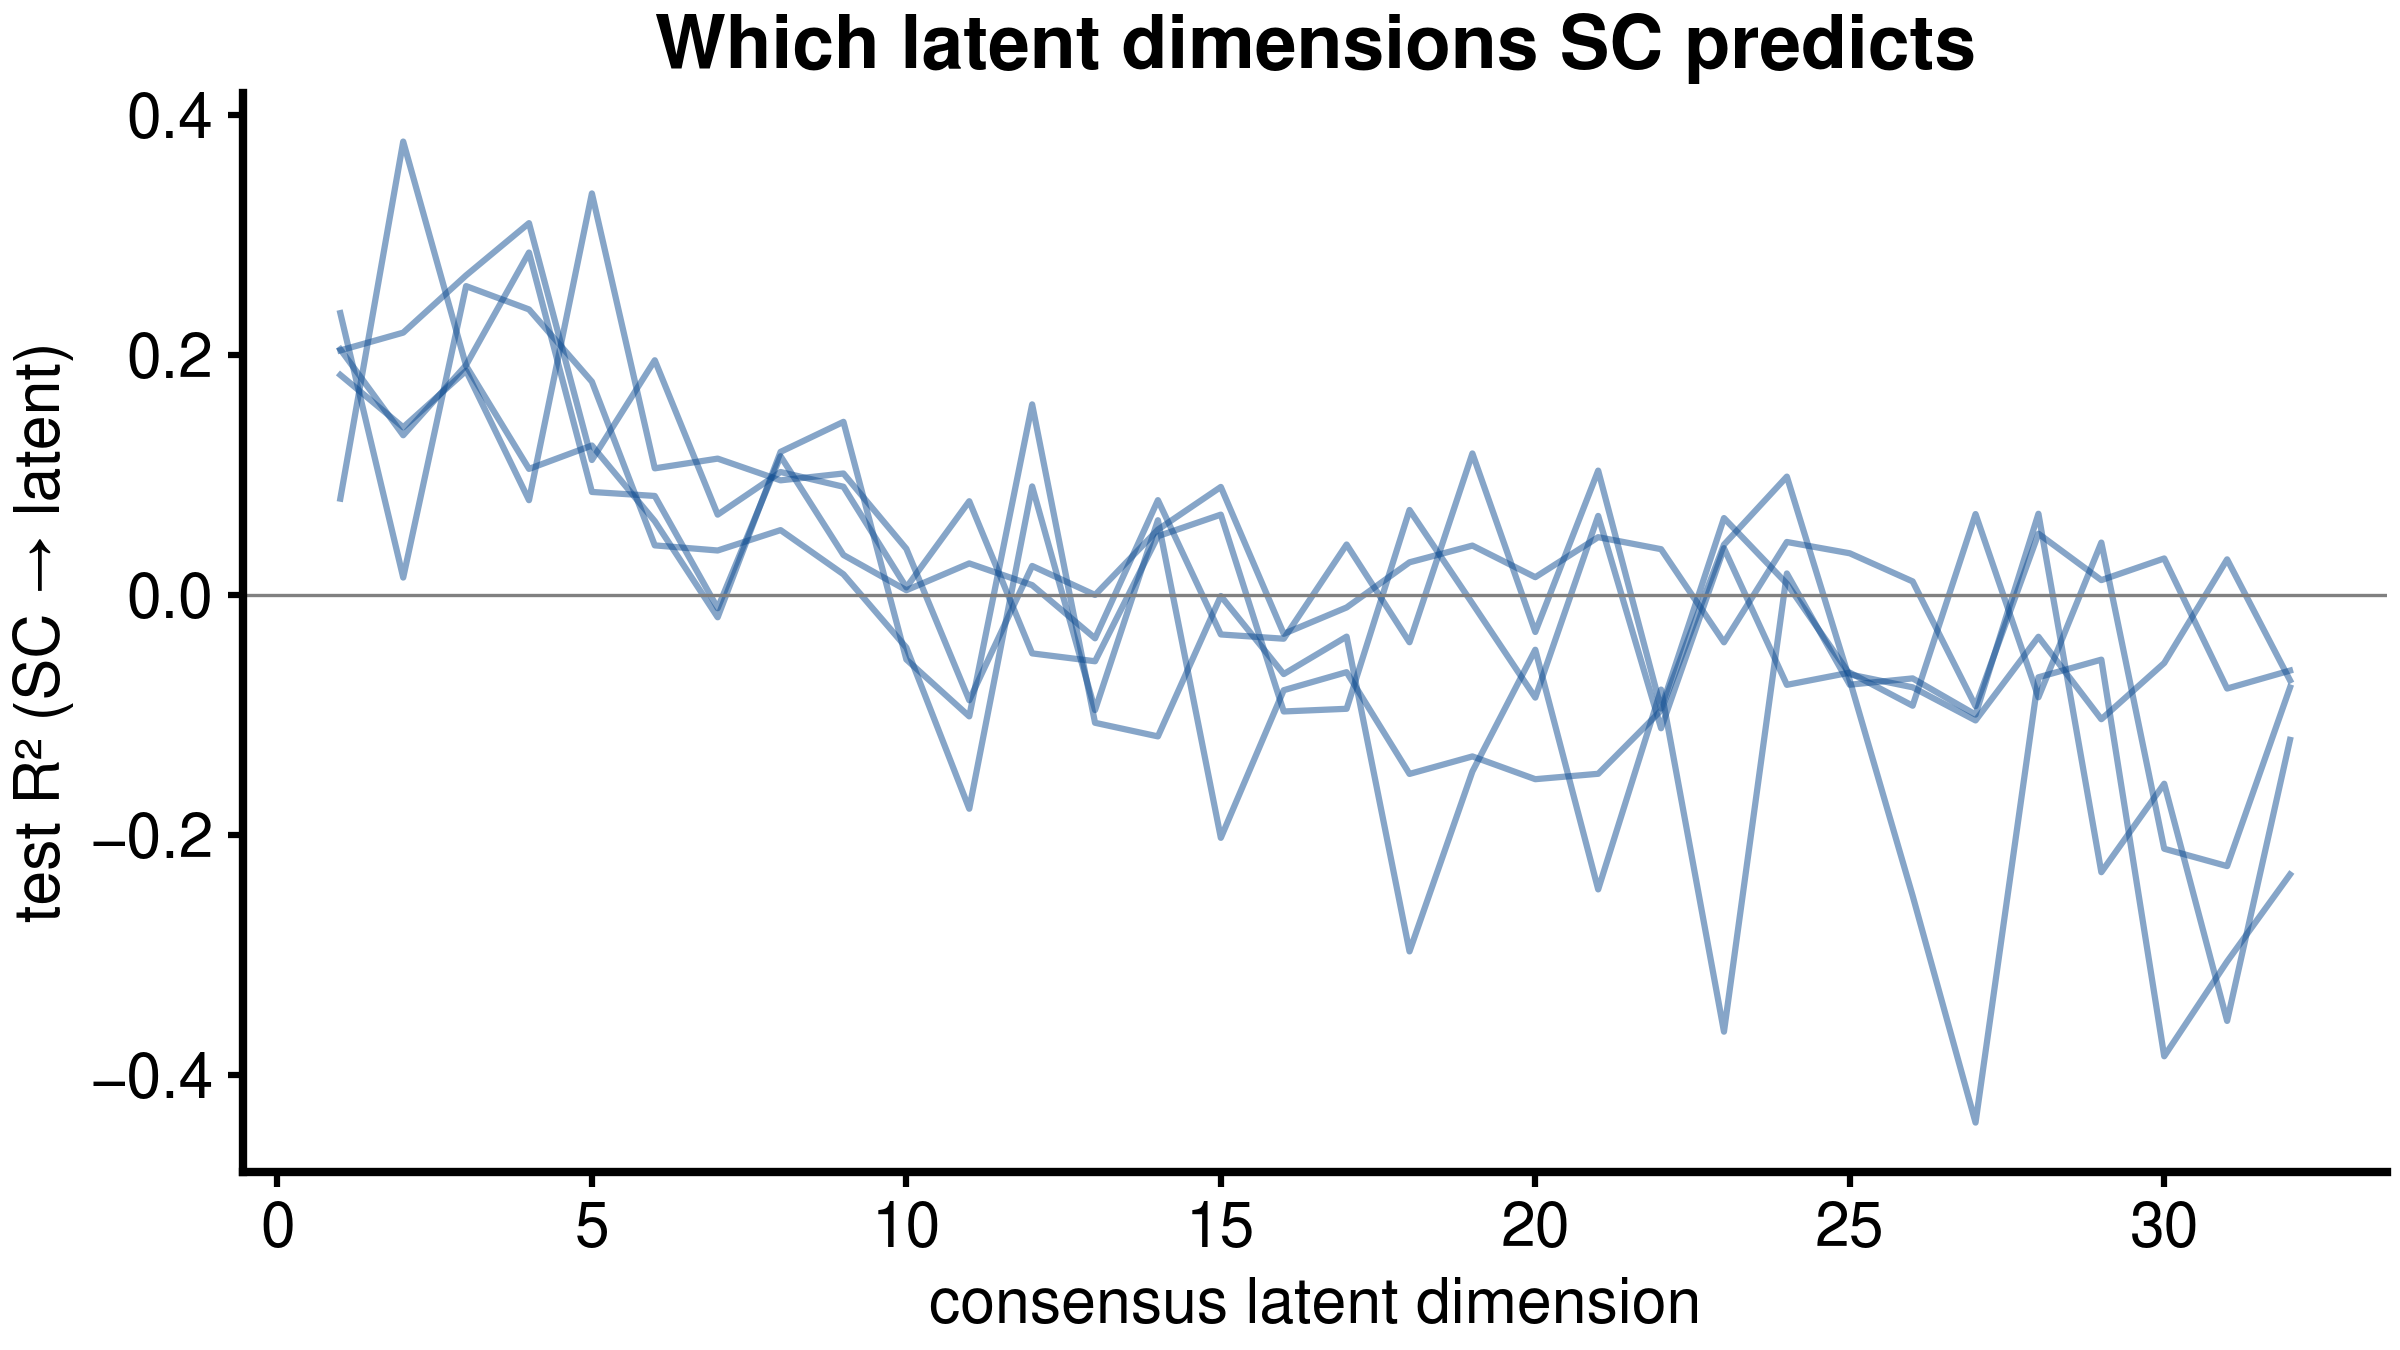
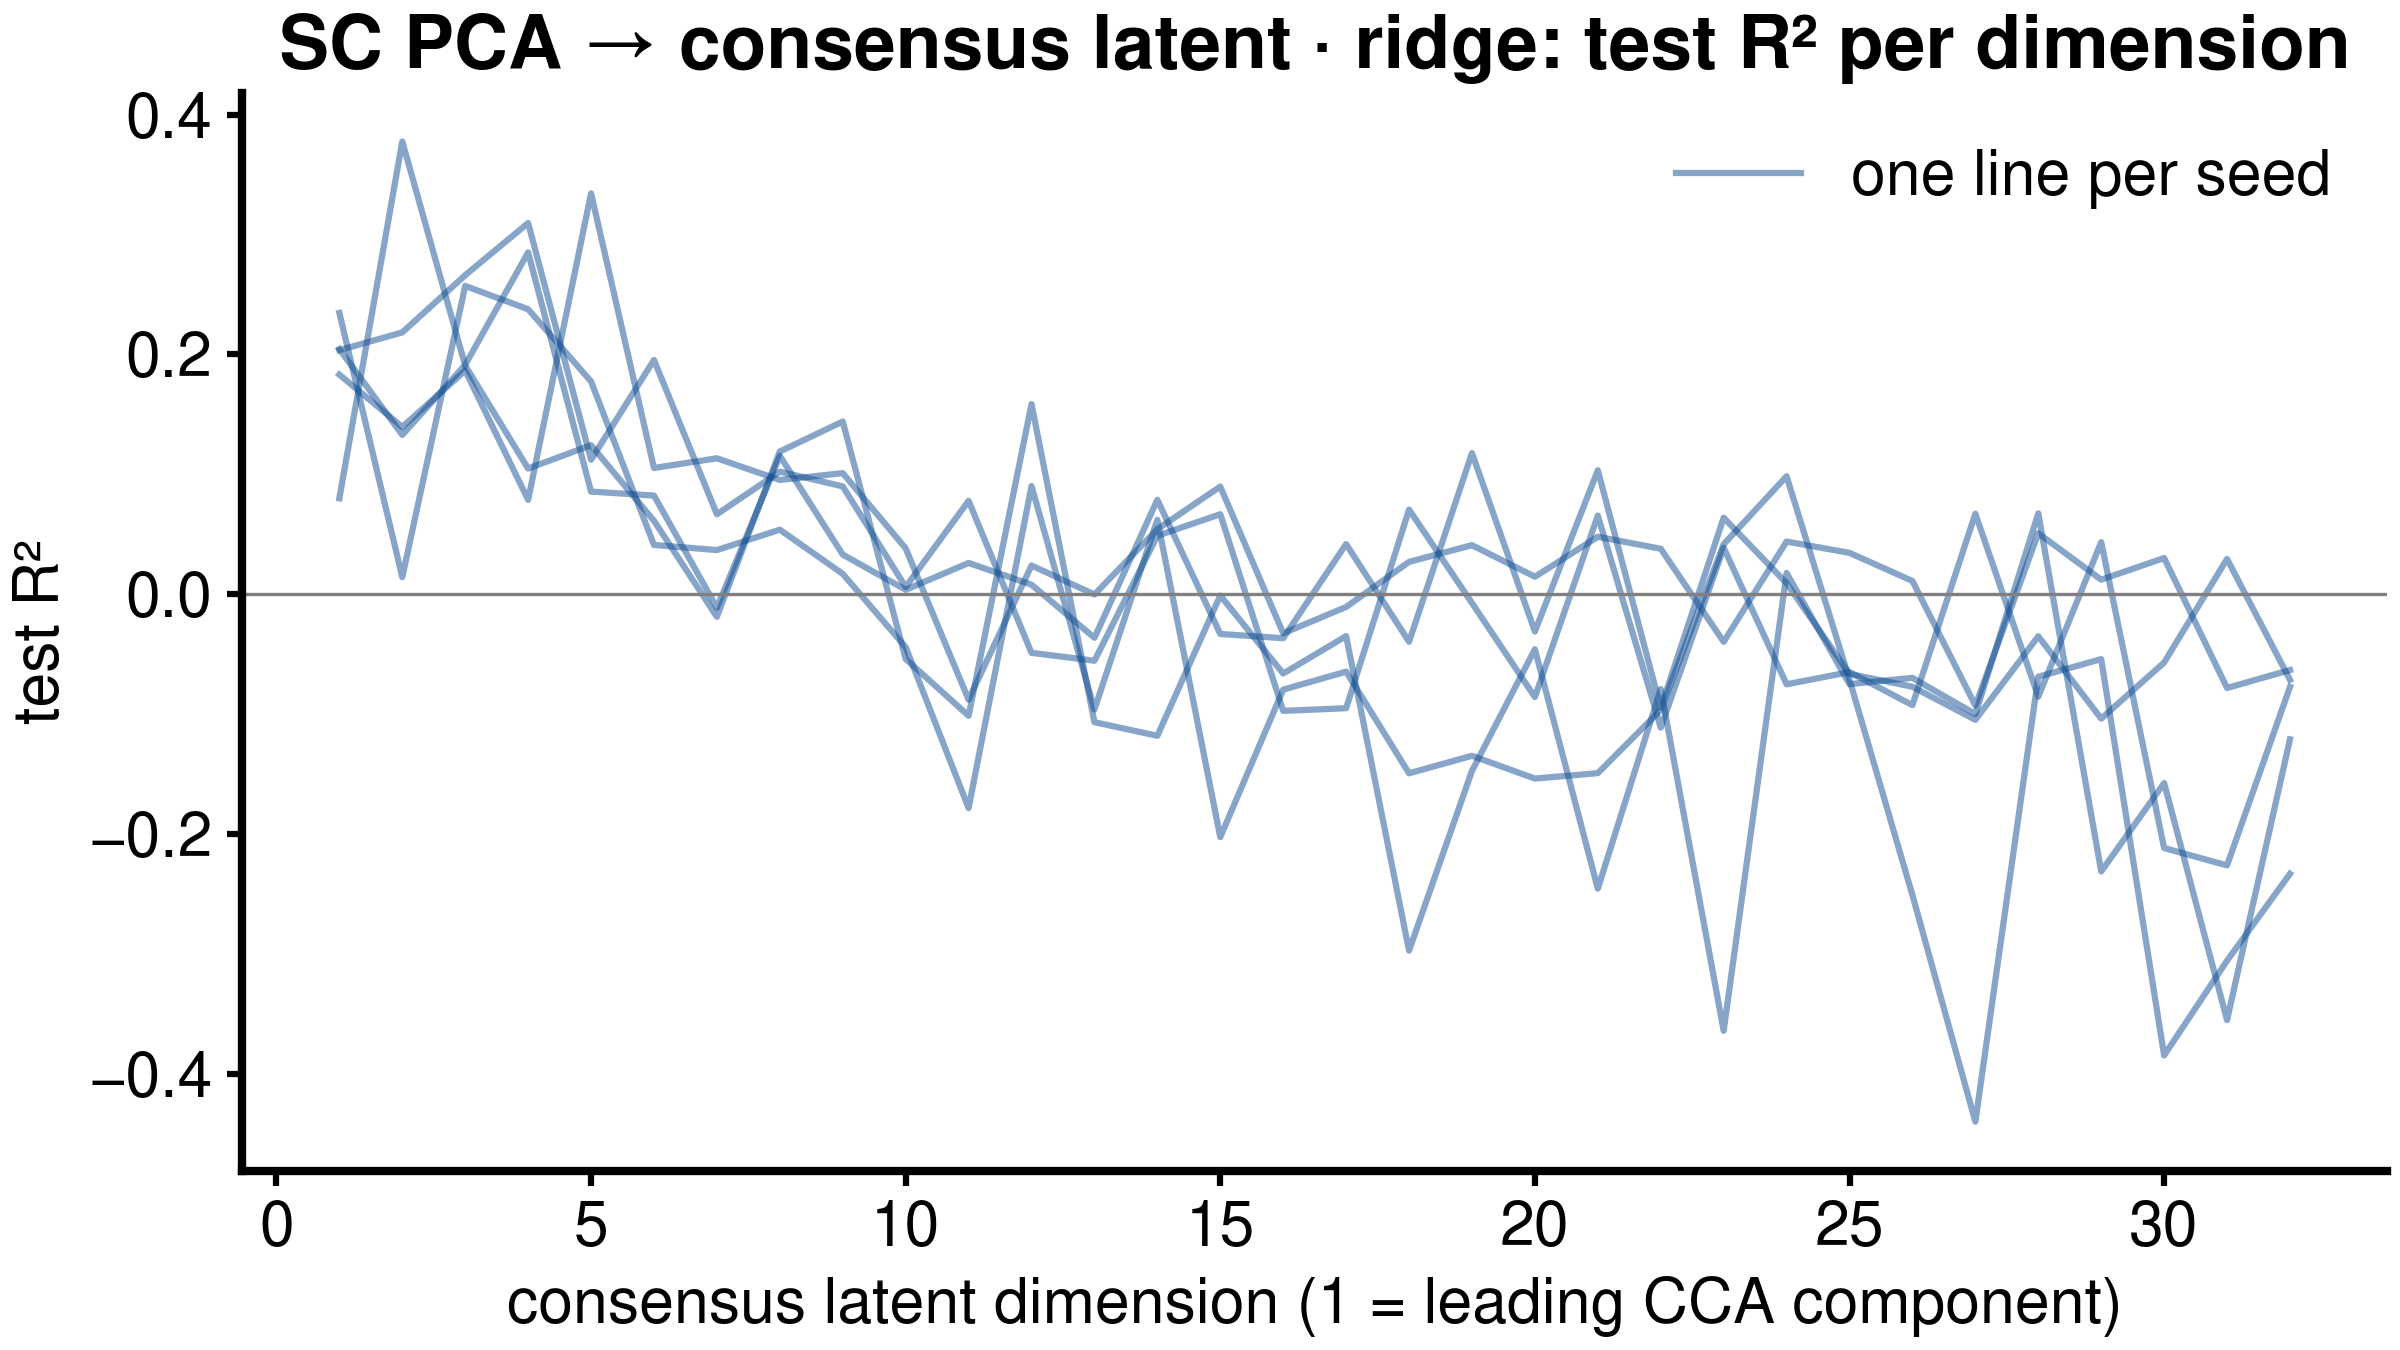
E2: readable input -> output labels on all figures and tables; full shared CCA (SC as a view, E1 L4) reference in the write-up

diff --git a/scripts/experiments/cca_latent_bench/run.py b/scripts/experiments/cca_latent_bench/run.py
@@ -114,6 +114,9 @@ def fig_fc2sc(rec, bench, path):
     import matplotlib.pyplot as plt
     order = ["rest PCA codes (val-selected k)", "rest encoding", "7-task consensus", "8-condition consensus",
              "concatenated encodings", *[f"{t} encoding" for t in TASKS]]
+    ticks = ["rest FC PCA → SC", "rest FC → latent → SC", "7 task FCs → consensus latent → SC",
+             "8 FCs → consensus latent → SC", "8 FCs → 8 latents (concat.) → SC",
+             *[f"{t} FC → latent → SC" for t in TASKS]]
     vals = {}
     for ro in ("ridge", "pls"):
         f = dict(direction="fc2sc", latent="sc_blind", readout=ro)
@@ -125,20 +128,23 @@ def fig_fc2sc(rec, bench, path):
             means = [v.mean() for v in vals[ro]]
             ses = [v.sem() for v in vals[ro]]
             ax.bar(x + (j - 0.5) * 0.38, means, 0.38, yerr=ses, color=c, edgecolor="black", lw=1.2, capsize=3,
-                   label=ro.upper() if ro == "pls" else "Ridge")
+                   label=f"readout: {'PLS' if ro == 'pls' else 'ridge'}")
             for xi, v in zip(x, vals[ro]):
                 ax.scatter(np.full(len(v), xi + (j - 0.5) * 0.38), v, s=14, color="black", zorder=3)
         b = bench_series(bench, "fc2sc", "rest")
-        ax.axhline(b.mean(), color=PAL["red"], lw=2, ls="--", label=f"v3:E0 rest, PCA-PLS learnable ({b.mean():.3f})")
+        ax.axhline(b.mean(), color=PAL["red"], lw=2, ls="--",
+                   label=f"rest FC PCA → SC · PCA-PLS learnable [v3:E0] ({b.mean():.3f})")
         for xi, name in zip(x, order):     # the same condition's own v3:E0 row on each single-condition bar
             cond = name.split(" ")[0]
             if name.endswith("encoding") and cond in FC:
                 ax.plot([xi - 0.4, xi + 0.4], [bench_series(bench, "fc2sc", cond).mean()] * 2, color=PAL["red"], lw=3,
-                        solid_capstyle="butt", label="v3:E0 same condition (PCA-PLS learnable)" if cond == "rest" else None)
-        ax.set_xticks(x, order, rotation=35, ha="right", rotation_mode="anchor")
-        ax.set_ylabel("Test demeaned r (FC → SC)")
-        ax.set_title("E2 FC → SC: input encodings (SC-blind CCA latent), mean ± SE over 5 seeds", fontweight="bold")
-        ax.legend(frameon=False, fontsize=12, loc="upper right")
+                        solid_capstyle="butt", label="same FC condition, own FC PCA → SC · PCA-PLS learnable [v3:E0]" if cond == "rest" else None)
+        ax.set_xticks(x, ticks, rotation=35, ha="right", rotation_mode="anchor")
+        ax.set_ylabel("Test demeaned r (predicted vs measured SC)")
+        ax.set_title("E2 FC → SC: which FC encoding predicts SC best (latent = FC-only CCA, never sees SC); "
+                     "mean ± SE, 5 seeds", fontweight="bold", fontsize=15)
+        ax.set_ylim(0, 0.2)
+        ax.legend(frameon=False, fontsize=12, loc="upper center", ncol=2)
         fig.savefig(path, dpi=300, facecolor="white")
         plt.close(fig)
 
@@ -147,12 +153,12 @@ def fig_sc2fc(rec, bench, path):
     import matplotlib
     matplotlib.use("Agg")
     import matplotlib.pyplot as plt
-    series = [("v3:E0 SC → FC", lambda m: bench_series(bench, "sc2fc", m), PAL["red"]),
-              ("direct SC → condition (ridge)", lambda m: per_seed(rec, input="direct codes", direction="sc2fc", condition=m, readout="ridge"), PAL["neutral"]),
-              ("via own encoding (ridge)", lambda m: per_seed(rec, input="via own encoding", direction="sc2fc", condition=m, readout="ridge"), PAL["teal"]),
-              ("via consensus latent (ridge)", lambda m: per_seed(rec, input="via consensus latent", direction="sc2fc", condition=m, readout="ridge"), PAL["blue"])]
+    series = [("SC PCA → task FC (per-task FC PCA) · PCA-PLS learnable [v3:E0]", lambda m: bench_series(bench, "sc2fc", m), PAL["red"]),
+              ("SC PCA → task FC (block FC PCA) · ridge", lambda m: per_seed(rec, input="direct codes", direction="sc2fc", condition=m, readout="ridge"), PAL["neutral"]),
+              ("SC PCA → task latent → task FC · ridge", lambda m: per_seed(rec, input="via own encoding", direction="sc2fc", condition=m, readout="ridge"), PAL["teal"]),
+              ("SC PCA → consensus latent → task FC · ridge", lambda m: per_seed(rec, input="via consensus latent", direction="sc2fc", condition=m, readout="ridge"), PAL["blue"])]
     with plt.rc_context({**mb.FIG_RC, "font.size": 15, "axes.linewidth": 2.0}):
-        fig, ax = plt.subplots(figsize=(15, 6), layout="constrained")
+        fig, ax = plt.subplots(figsize=(15, 6.5), layout="constrained")
         x = np.arange(len(FC))
         w = 0.2
         for j, (lab, fn, c) in enumerate(series):
@@ -161,11 +167,13 @@ def fig_sc2fc(rec, bench, path):
                    lw=1.1, capsize=2, label=lab)
         ceil = [per_seed(rec, input="ceiling: true consensus latent", direction="sc2fc", condition=m).mean() for m in FC]
         ax.scatter(x + 1.5 * w, ceil, marker="_", s=400, color="black", lw=2.5, zorder=4,
-                   label="ceiling: true consensus latent decoded")
+                   label="ceiling: measured FC consensus latent → task FC (no SC)")
         ax.set_xticks(x, FC)
-        ax.set_ylabel("Test demeaned r (SC → FC)")
-        ax.set_title("E2 SC → FC per condition, mean ± SE over 5 seeds", fontweight="bold")
-        ax.legend(frameon=False, fontsize=12, ncol=2, loc="upper right")
+        ax.set_xlabel("target FC condition")
+        ax.set_ylabel("Test demeaned r (predicted vs measured FC)")
+        ax.set_title("E2 SC → FC: predicting each condition's FC from SC (latent = FC-only CCA); mean ± SE, 5 seeds",
+                     fontweight="bold", fontsize=15)
+        ax.legend(frameon=False, fontsize=12, ncol=1, loc="upper right")
         fig.savefig(path, dpi=300, facecolor="white")
         plt.close(fig)
 
@@ -177,11 +185,12 @@ def fig_latent_r2(r2, path):
     with plt.rc_context({**mb.FIG_RC, "font.size": 15, "axes.linewidth": 2.0}):
         fig, ax = plt.subplots(figsize=(8, 4.5), layout="constrained")
         for s, g in r2.groupby("seed"):
-            ax.plot(g.dim, g.test_r2, color=PAL["blue"], alpha=0.5, lw=1.5, label="seed" if s == r2.seed.min() else None)
+            ax.plot(g.dim, g.test_r2, color=PAL["blue"], alpha=0.5, lw=1.5, label="one line per seed" if s == r2.seed.min() else None)
         ax.axhline(0, color="grey", lw=0.8)
-        ax.set_xlabel("consensus latent dimension")
-        ax.set_ylabel("test R² (SC → latent)")
-        ax.set_title("Which latent dimensions SC predicts", fontweight="bold")
+        ax.set_xlabel("consensus latent dimension (1 = leading CCA component)")
+        ax.set_ylabel("test R²")
+        ax.legend(frameon=False)
+        ax.set_title("SC PCA → consensus latent · ridge: test R² per dimension", fontweight="bold")
         fig.savefig(path, dpi=300, facecolor="white")
         plt.close(fig)
 
@@ -196,13 +205,17 @@ def fig_latent_selection(lat, path):
         for ax, k in zip(axes, CFG["latent"]["k_fc"]):
             for lam, c in zip(sorted(g.lambda_rel.unique()), [PAL["red"], PAL["teal"], PAL["blue"], PAL["violet"]]):
                 q = g[(g.k_fc == k) & (g.lambda_rel == lam)]
-                ax.plot(q.d, q.val_cross_avg_rank, marker="o", color=c, label=f"λ = {lam:g}")
+                ax.plot(q.d, q.val_cross_avg_rank, marker="o", color=c, label=f"CCA ridge λ = {lam:g}")
             ax.set_xscale("log", base=2)
-            ax.set_title(f"k_FC = {k}")
-            ax.set_xlabel("latent dimension d")
-        axes[0].set_ylabel("val cross-condition avg rank")
+            ds = sorted(g.d[g.k_fc == k].unique())
+            ax.set_xticks(ds, [str(int(d)) for d in ds])
+            ax.minorticks_off()
+            ax.set_title(f"{k} block FC PCA codes per condition")
+            ax.set_xlabel("CCA latent dimension d")
+        axes[0].set_ylabel("val cross-condition identification\n(avg rank, 56 condition pairs)")
         axes[-1].legend(frameon=False)
-        fig.suptitle("SC-blind latent selection (mean over seeds)", fontweight="bold")
+        fig.suptitle("Choosing the FC-only CCA latent without SC: does a subject's encoding from one FC condition find "
+                     "them in another? (mean over 5 seeds)", fontweight="bold", fontsize=14)
         fig.savefig(path, dpi=300, facecolor="white")
         plt.close(fig)
 

diff --git a/scripts/experiments/cca_latent_bench/cca_latent_bench.md b/scripts/experiments/cca_latent_bench/cca_latent_bench.md
@@ -59,7 +59,7 @@ SC → FC with the latent as the target.
 
 ### SC → FC
 
-| Condition | v3:E0 | direct SC → codes (ridge) | via own encoding | via consensus latent | Ceiling: true consensus decoded |
+| Target FC condition | SC PCA → task FC (per-task FC PCA) · PCA-PLS learnable [v3:E0] | SC PCA → task FC (block FC PCA) · ridge | SC PCA → task latent → task FC · ridge | SC PCA → consensus latent → task FC · ridge | Ceiling: measured FC consensus latent → task FC (no SC) |
 |---|---|---|---|---|---|
 | rest | 0.085 | 0.096 | 0.103 | 0.105 | 0.304 |
 | wm | 0.030 | 0.054 | 0.055 | 0.056 | 0.196 |
@@ -70,10 +70,33 @@ SC → FC with the latent as the target.
 | relational | 0.016 | 0.026 | 0.029 | 0.030 | 0.132 |
 | emotion | 0.013 | 0.031 | 0.032 | 0.032 | 0.107 |
 
+Every SC input is SC's own train PCA (size 64–512 chosen on val per model and condition). E2's routes all output in
+the shared block FC PCA basis (equal-variance pooled); v3:E0 uses a separate FC PCA basis per condition. The step from
+the first to the second column is therefore the basis and readout (no CCA); the step from the second to the last two
+columns is the latent route.
+
 Predicted vs true consensus latent (test): mean per-dimension R² −0.06 to 0.05 across seeds, yet identification
 top-1 0.05–0.15 (chance 0.005), average rank 0.86–0.90.
 
 ![SC to FC per condition](results/Glasser/figures/fig_sc2fc_conditions.png)
+
+### Reference: full shared CCA with SC as a ninth view (E1 linear arm L4)
+
+The same MAXVAR with SC included as a view, from `scripts/experiments/joint_flow_matching/linear_arms.py` (5 seeds;
+$(d, \lambda)$ chosen on mean val demeaned r over all 72 view pairs, $d$ = 32 in most seeds; block FC PCA codes,
+$k$ = 512 shown). Translation encodes the source view and decodes the target view.
+
+| | rest | emotion | gambling | language | motor | relational | social | wm |
+|---|---|---|---|---|---|---|---|---|
+| SC → shared latent (with SC) → FC | 0.105 | 0.032 | 0.038 | 0.055 | 0.039 | 0.030 | 0.040 | 0.057 |
+| SC PCA → consensus latent (FC-only) → FC (this benchmark) | 0.105 | 0.032 | 0.041 | 0.055 | 0.041 | 0.030 | 0.042 | 0.056 |
+| FC → shared latent (with SC) → SC | 0.132 | 0.072 | 0.086 | 0.102 | 0.088 | 0.074 | 0.089 | 0.107 |
+| FC → latent (FC-only) → SC (this benchmark) | 0.131 | 0.082 | 0.100 | 0.108 | 0.096 | 0.083 | 0.100 | 0.116 |
+
+Including SC in the latent changes SC → FC by at most 0.003 and lowers FC → SC for every task (by 0.006–0.014);
+8 FC conditions averaged in the latent give 0.137 for SC (vs 0.139 here). The SC-blind FC latent is at least as good
+in both directions, so SC does not need to shape the latent, and the consensus latent can be used as an SC-free
+target.
 
 ### Hypotheses (`tables/summary.md`)
 
